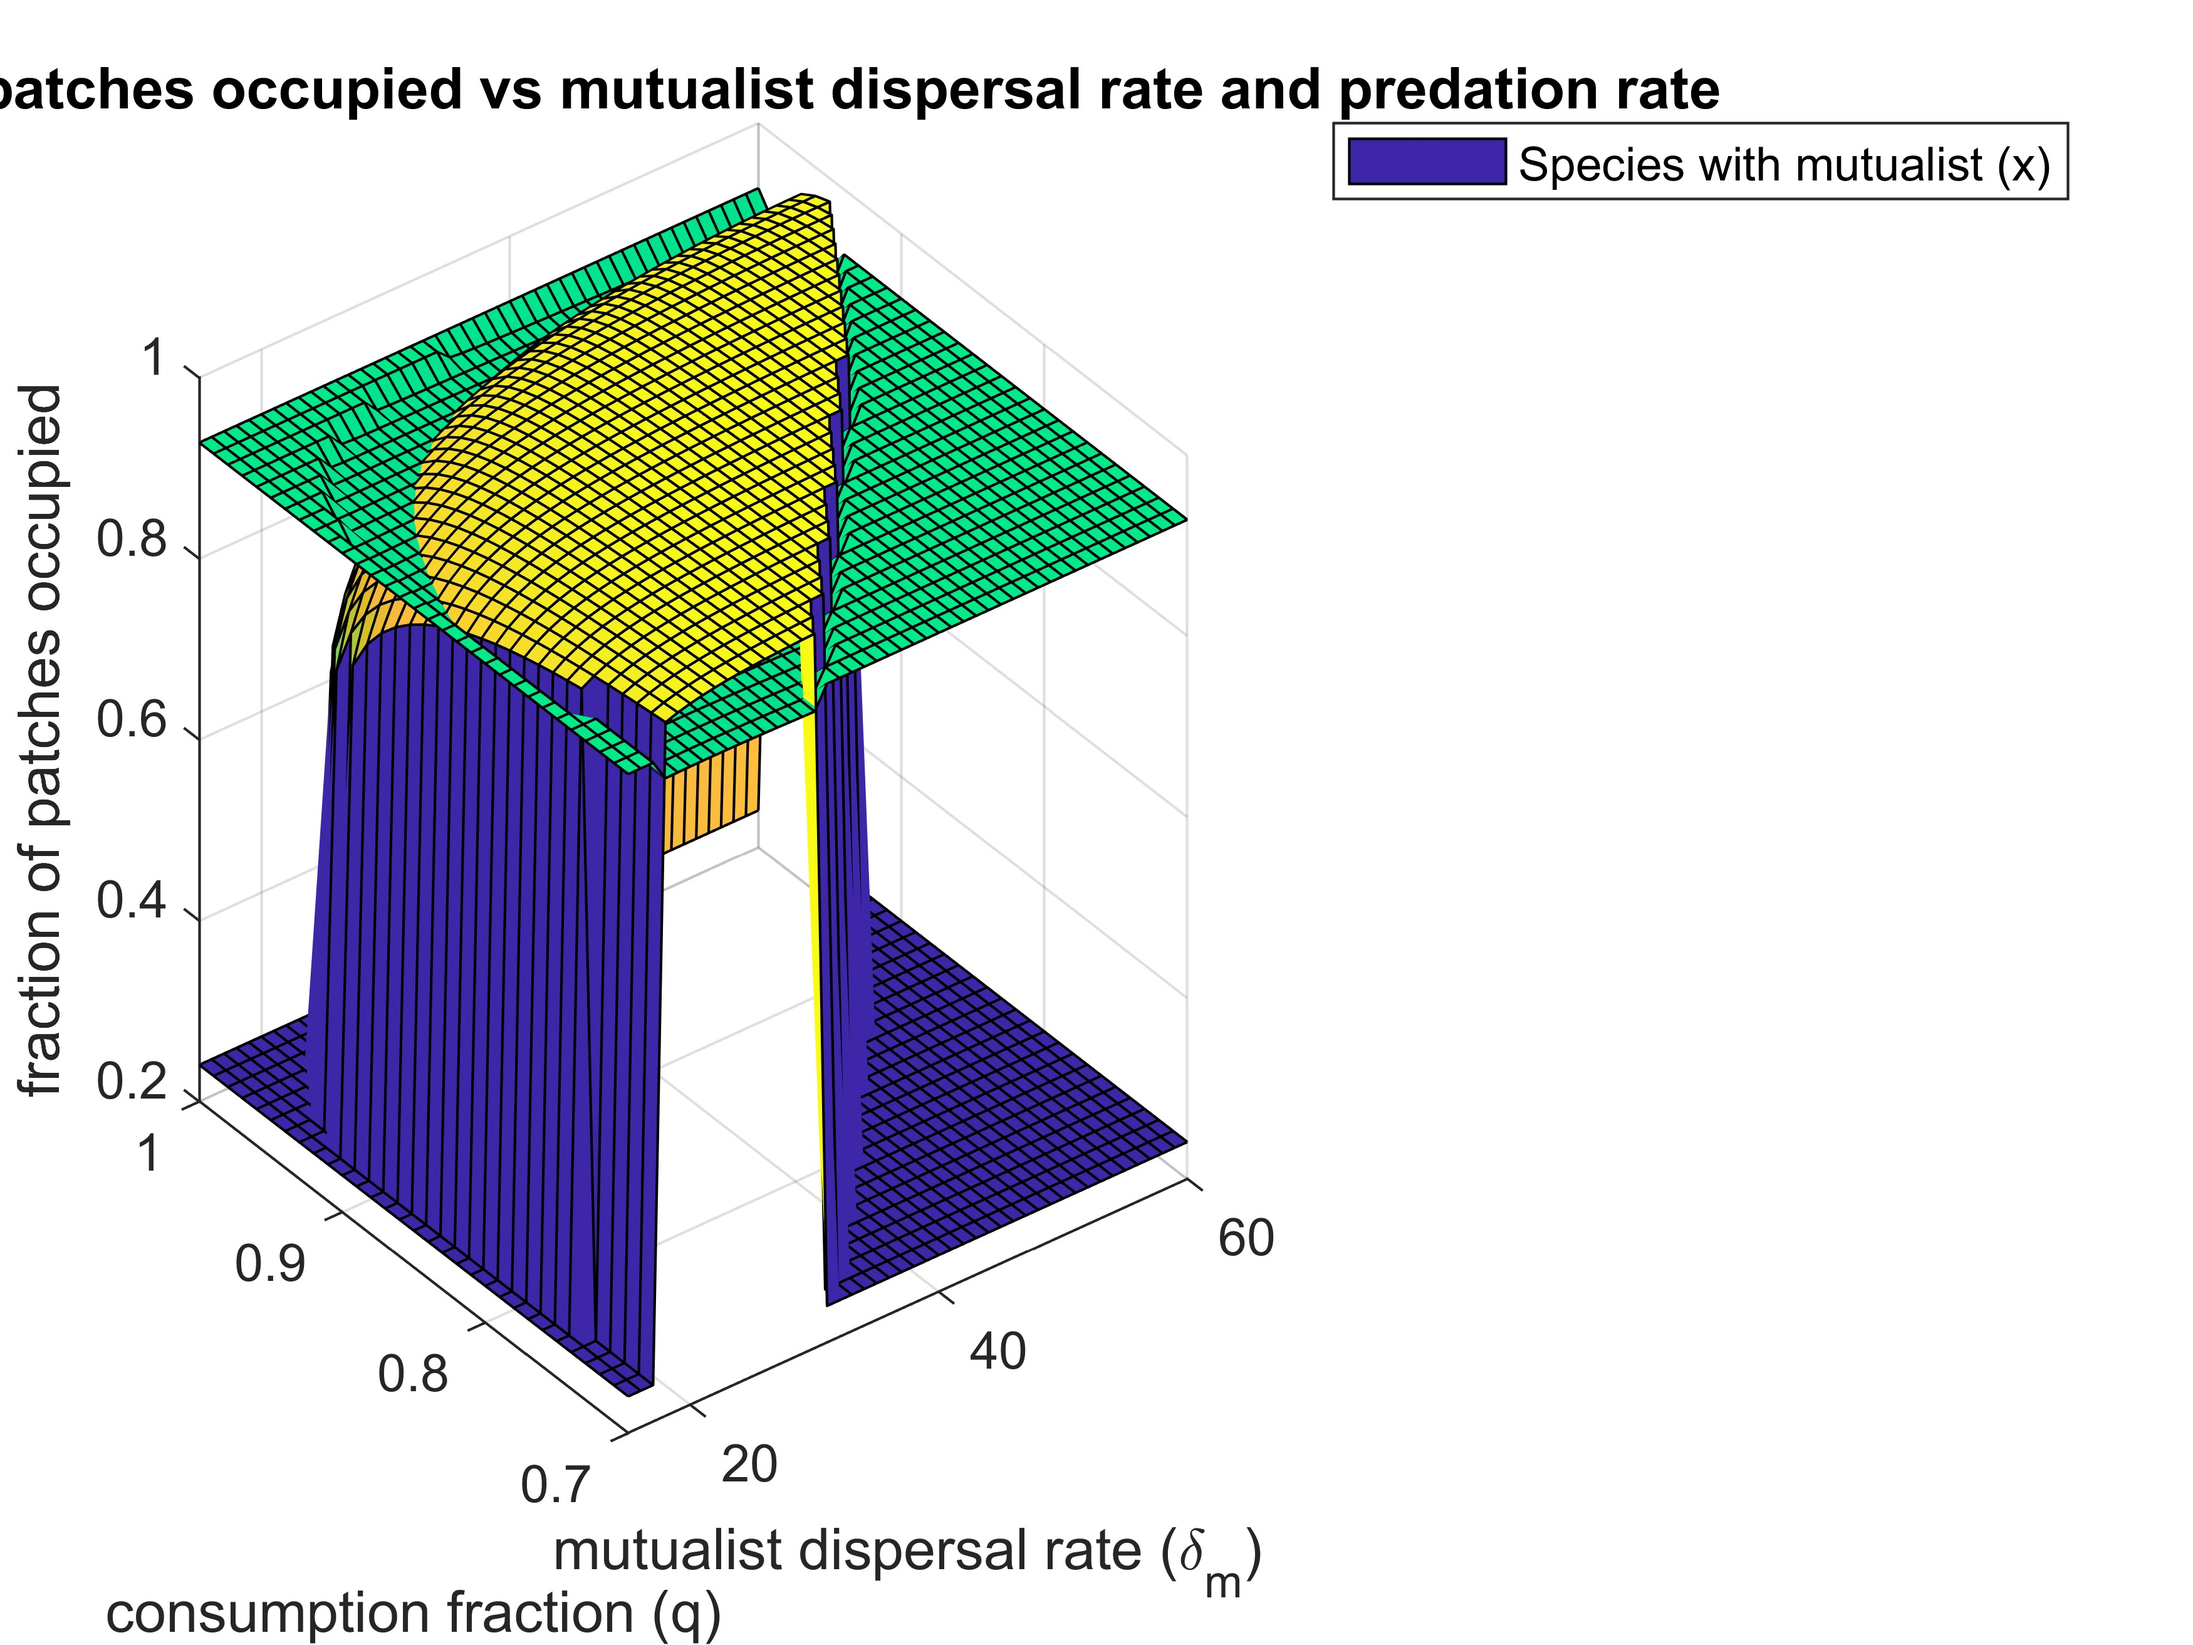
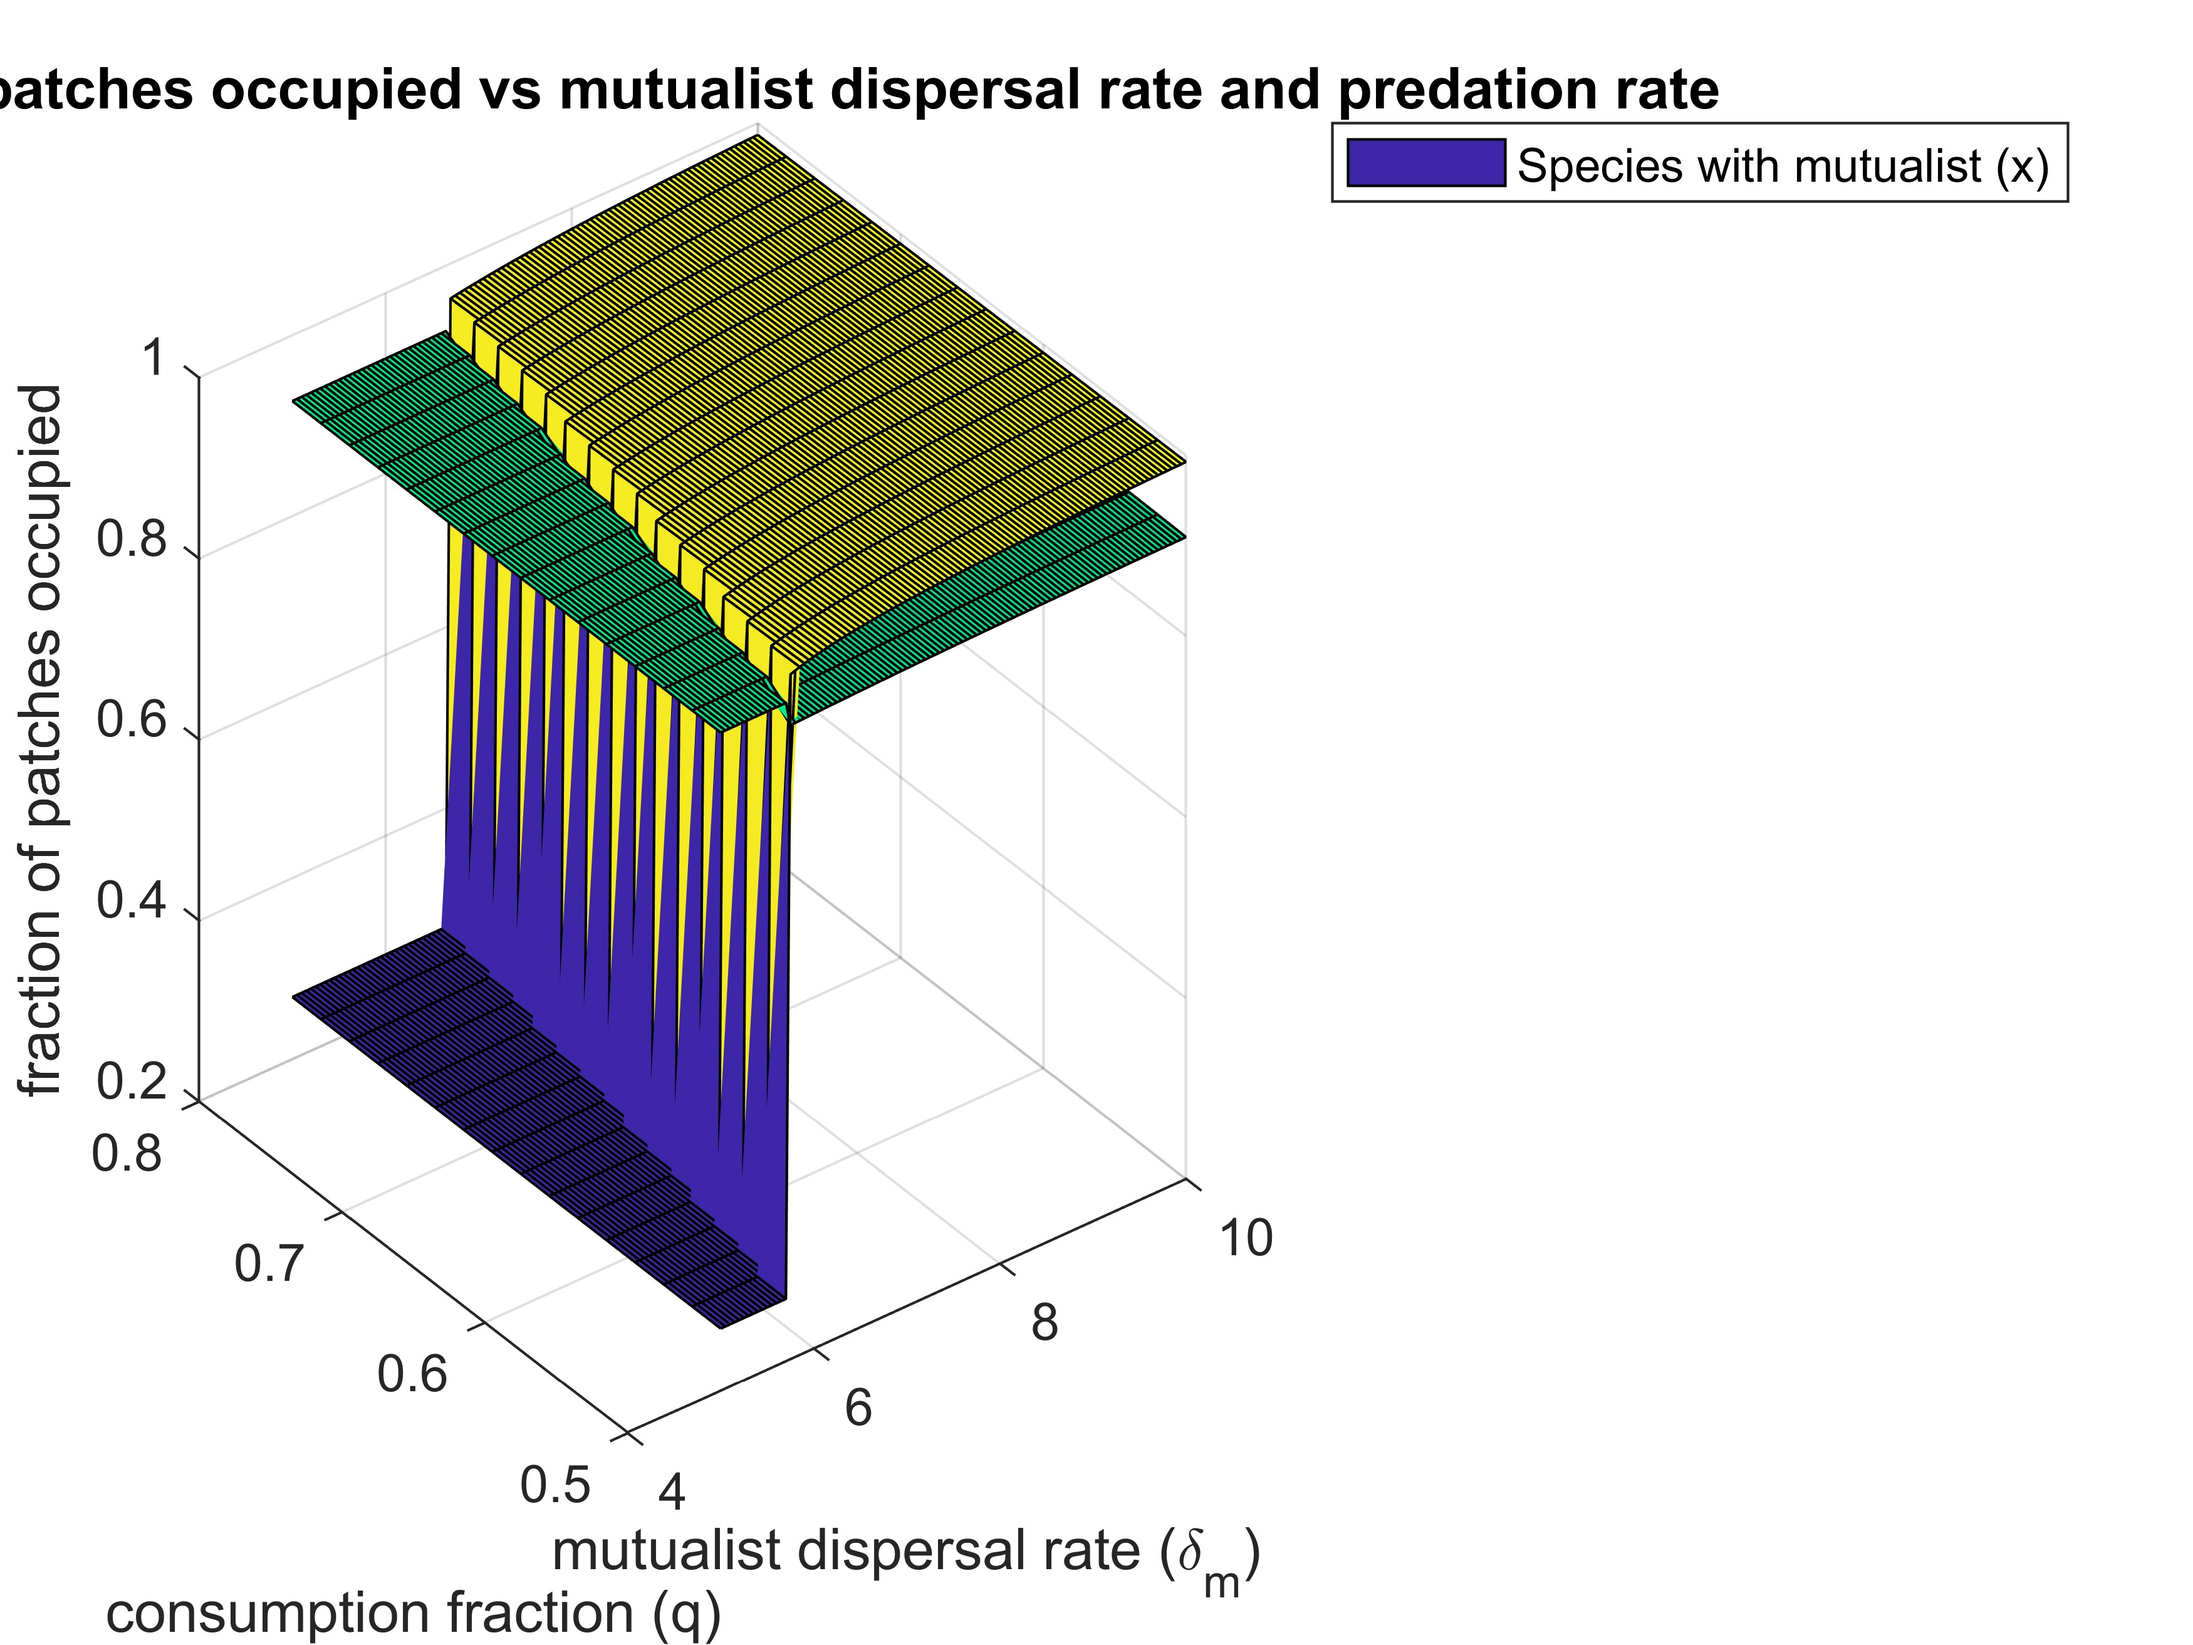
mods to equation blunders
I address some of the errors in writing down the colonisation and extinction equations in previous models. See iPad for more details

diff --git a/vectorized_disp_mutualism_metacommunity_allcombos_generalist.m b/vectorized_disp_mutualism_metacommunity_allcombos_generalist.m
@@ -1,0 +1,156 @@
+%%%%%%%% This code vectorizes the ODEs that need to be solved for multiple
+%%%%%%%% varying parameters (here 'q' and 'del_m')
+clear vars
+%% parameter definitions
+r_x = 5; r_y = 5;
+
+alpha_xy = 0.73; alpha_yx = 0.60; %really only affects y's local density and dispersal
+
+K_x = 200; K_y = 200; %no point touching this
+
+del_x = 0.01; del_y = 0.05;
+%q = 0.45;
+d_m = 0.3; a = 0.8;%reducing 'a' reduces dispersal rates where px > py
+del_m = 5:0.05:15; %I'm only not starting from zero because the computational costs are absurd
+%a = 0.51:0.01:0.81;%0.7-1.1 seems to work for this fig.
+q = 0.5:0.02:0.8;
+[Del,Q] = meshgrid(del_m,q);
+
+Del_col = Del(:); Q_col = Q(:); 
+
+num_combinations = numel(Q_col); 
+
+k_eff = 1; %efficiency of dispersing seeds to habitable patches
+
+z_x = 0.6; z_y = 0.6; z_m = 0.3; %scaling factors for patch extinction rates. changing z_m relative to z_x and z_m does not change qual. change results
+
+e_xmin = 0.05;e_ymin = 0.05; e_mmin = 0.16; e_mxmin = e_xmin; 
+
+tspan = [0,5000];
+
+k_x = 0.08; k_y = 0.08; k_m = 0.08; %
+
+x_init = 0.001; y_init = 0.001; m_init = 0.001;
+
+spp_init_no_m = [x_init; y_init; 0];
+spp_init_no_y = [x_init; 0; m_init];
+spp_init_no_x = [0; y_init; m_init];
+spp_init = [x_init; y_init; m_init];
+
+f = 1; % f is the fraction of diet consumed by frugivore that consists of 'x'. (1-f) is fraction that is 'y'
+%variable collectors across parameter sweeps
+
+% occupancy_del_m = zeros(size(del_m,1),3);
+% eta_check = zeros(size(del_m,1),1);
+% mu_collector = zeros(size(del_m,1),1);
+% gamma = zeros(size(del_m,1),1);
+% cm_collector = zeros(size(del_m,1),1);
+% eta2 = zeros(size(del_m,1),1);
+% em_collector = zeros(size(del_m,1),1);
+% lambda_collector = zeros(size(del_m,1),1);
+
+%% Local patch dynamics
+
+options = odeset('Events',@nonNegativeEvent);
+% [t_patch_no_m,local_dens_no_m] = ode45(@(t,y) vectorized_LocalSpeciesInteraction(t,y,r_x,r_y,alpha_xy,alpha_yx, K_x, K_y, del_x, del_y, Del_col', a, Q_col', d_m, num_combinations), tspan./10, repmat(spp_init_no_m,1,num_combinations));
+% [t_patch_no_y,local_dens_no_y] = ode45(@(t,y) vectorized_LocalSpeciesInteraction(t,y,r_x,r_y,alpha_xy,alpha_yx, K_x, K_y, del_x, del_y, Del_col', a, Q_col', d_m, num_combinations), tspan./10, repmat(spp_init_no_y,1,num_combinations));
+% [t_patch,local_dens] = ode45(@(t,y)vectorized_LocalSpeciesInteraction(t,y,r_x,r_y,alpha_xy,alpha_yx, K_x, K_y, del_x, del_y,Del_col',a, Q_col', d_m, num_combinations), tspan, repmat(spp_init, 1, num_combinations), options);
+
+% in case the frugivore is a generalist
+[t_patch_no_x,local_dens_no_x] = ode45(@(t,y) vectorized_LocalSpeciesInteraction_generalist(t,y,r_x,r_y,alpha_xy,alpha_yx, K_x, K_y, del_x, del_y, Del_col', a, Q_col', d_m, num_combinations, f), tspan./10, repmat(spp_init_no_x,1,num_combinations));
+[t_patch_no_m,local_dens_no_m] = ode45(@(t,y) vectorized_LocalSpeciesInteraction_generalist(t,y,r_x,r_y,alpha_xy,alpha_yx, K_x, K_y, del_x, del_y, Del_col', a, Q_col', d_m, num_combinations, f), tspan./10, repmat(spp_init_no_m,1,num_combinations));
+[t_patch_no_y,local_dens_no_y] = ode45(@(t,y) vectorized_LocalSpeciesInteraction_generalist(t,y,r_x,r_y,alpha_xy,alpha_yx, K_x, K_y, del_x, del_y, Del_col', a, Q_col', d_m, num_combinations, f), tspan./10, repmat(spp_init_no_y,1,num_combinations));
+[t_patch,local_dens] = ode45(@(t,y)vectorized_LocalSpeciesInteraction_generalist(t,y,r_x,r_y,alpha_xy,alpha_yx, K_x, K_y, del_x, del_y,Del_col',a, Q_col', d_m, num_combinations, f), tspan, repmat(spp_init, 1, num_combinations), options);
+
+num_timepoints_no_x = length(t_patch_no_x);
+num_timepoints_no_m = length(t_patch_no_m);
+num_timepoints_no_y = length(t_patch_no_y);
+num_timepoints = length(t_patch);
+
+local_dens_no_x_3d = reshape(local_dens_no_x(end,:),[],num_combinations);
+local_dens_no_m_3d = reshape(local_dens_no_m(end,:),[],num_combinations);
+local_dens_no_y_3d = reshape(local_dens_no_y(end,:),[],num_combinations);
+local_dens_3d = reshape(local_dens(end,:),[],num_combinations);
+
+
+
+
+%      figure()
+%      plot(t_patch,local_dens)
+%% metacommunity dynamics
+% e_x = e_xmin..*((K_x../(local_dens_no_m_3d(1,:)))..^z_x);e_y = e_ymin..*(K_y../(local_dens_3d(2,:)))..^z_y;
+% e_mx = e_xmin..*(K_x../(local_dens_3d(1,:)))..^z_x;
+% e_m = e_mmin..*(K_x../(local_dens_3d(3,:)))..^z_m; %assume max population size of mutualist is similar to that of x and y
+
+e_x0 = e_xmin;e_y0 = e_ymin;
+e_xy = e_xmin.*((K_x./(local_dens_no_m_3d(1,:))).^z_x); e_yx = e_ymin.*((K_y./(local_dens_no_m_3d(2,:))).^z_y);
+e_xm = e_xmin.*((K_x./(local_dens_no_y_3d(1,:))).^z_x); e_ym = e_ymin;
+e_xym = e_xmin.*(K_x./(local_dens_3d(1,:))).^z_x; e_yxm = e_ymin.*(K_y./(local_dens_3d(2,:))).^z_y;
+e_mx = e_mmin.*(K_x./(local_dens_no_y_3d(3,:))).^z_m; e_mxy = e_mmin.*(K_x./(local_dens_3d(3,:))).^z_m; %assume max population size of mutualist is similar to that of x and y
+    
+%mu = e_mx - e_x;
+
+tspan_meta = [0,5000];
+
+% c_x = (k_x.*del_x)..*local_dens_no_m_3d(1,:);
+% c_y = k_y.*del_y..*local_dens_3d(2,:);
+% c_m = k_m.*Del_col'..*local_dens_3d(3,:);%repelem(del_m,numel(q)) can also be used in place of Del_col' if u feel funky
+% c_mx =(k_x.*del_x+k_m.*k_eff.*a..*(1-Q_col')..*Del_col'..*local_dens_3d(3,:))..*local_dens_3d(1,:);
+
+%patches with only one species
+c_x0 = (k_x.*del_x).*K_x*(1-(del_x/r_x));
+c_y0 = (k_y.*del_y).*K_y*(1-(del_y/r_y)); 
+
+%patches with 2 species
+c_xy = (k_x.*del_x).*local_dens_no_m_3d(1,:); 
+c_yx =(k_y.*del_y).*local_dens_no_m_3d(2,:);
+c_mx = k_m.*Del_col'.*local_dens_no_y_3d(3,:);
+c_xm = ((k_x.*del_x)+k_m*k_eff.*Del_col'.*local_dens_no_y_3d(3,:)).*local_dens_no_y_3d(1,:);
+c_ym = ((k_y.*del_y)+k_m*k_eff.*Del_col'.*local_dens_no_x_3d(3,:)).*local_dens_no_x_3d(2,:); % patches with one plant-one frugivore
+c_my = k_m.*Del_col'.*local_dens_no_x_3d(3,:);
+
+%all species present
+c_xym = (k_x.*del_x+k_m.*k_eff.*f.*Del_col'.*local_dens_3d(3,:)).*local_dens_3d(1,:); 
+c_yxm = (k_y.*del_y+k_m.*k_eff.*(1-f).*Del_col'.*local_dens_3d(3,:)).*local_dens_3d(2,:);
+c_mxy = k_m.*Del_col'.*local_dens_3d(3,:);%all species present
+
+
+%lambda = c_mx-c_x;
+%%
+
+%options2 = odeset('NonNegative',[1,2,3]);
+[t_syst, frac_occup] = ode15s(@(t,y)vectorized_BetweenPatchDynamics_allcombos(t,y, c_x0, c_xm, c_xym, c_xy, c_y0, c_ym, c_yxm, c_yx, c_mx, c_mxy, e_x0, e_xy, e_xm, e_xym, e_y0, e_yx, e_ym, e_yxm, ...
+    e_mx, e_mxy, num_combinations), tspan_meta, repelem([0.1,0.1,0.1],num_combinations));
+
+
+num_tpts_t_syst = length(t_syst); frac_occup_3d = reshape(frac_occup(end,:), [],num_combinations);
+% 
+% eta_check = 0.5..*sqrt((((lambda..*(1+(e_m../c_m))+c_x)-(e_x+mu))../(c_x+lambda))..^2 + 4..*(e_m../c_m)..*((mu-lambda)../(c_x+lambda)));
+%      figure()
+%      plot(t_syst(end-100:end),frac_occup(end-100:end,1:2));
+
+% mu_collector(i,1) = mu;
+% cm_collector(i,1) = c_m;
+% em_collector(i,1) = e_m;
+% lambda_collector(i,1) = lambda;
+% occupancy_del_m(i, :) = frac_occup(end,:);
+% gamma(i,1) = (0.5..*((lambda.*(1+(e_m../c_m))+c_x)-(e_x+mu)))../(c_x+lambda);%0.5.*(1-((mu-e_x-e_m)./(c_x+c_m)));
+% eta2(i,:) = 4.*(e_m../c_m).*((mu-lambda)../(c_x+lambda));
+%save ("vectorized_q_del_m_varied.mat")
+%% surface plot
+figure()
+surf(Del, Q, reshape(frac_occup_3d(1,:),numel(q),numel(del_m)))
+colormap parula; freezeColors;
+hold on
+surf(Del, Q, reshape(frac_occup_3d(2,:),numel(q),numel(del_m)))
+colormap winter; freezeColors;
+%surf(Del, Q,occupancy_del_m(:,:,1))
+xlabel('mutualist dispersal rate (\delta_m)')
+ylabel ('consumption fraction (q)')
+%xlim([1.0 29.0]);
+zlabel('fraction of patches occupied')
+%xline([1.0 2.6, 10.4, 26.9],'--',{'Exploitative (x extinct)','Mutualism (y fitter)','Mutualism (x fitter)', 'Mutualism (y fitter)'})
+title('Fraction of patches occupied vs mutualist dispersal rate and predation rate')
+legend('Species with mutualist (x)')%, 'Species without mutualist (y)', 'mutualist (m)', 'location', 'best' )
+%fig1name = sprintf('occupancy_vs_del_m.jpeg');
+print('vectorized_occupancy_q_3d_vs_del_m','-djpeg','-r600')
